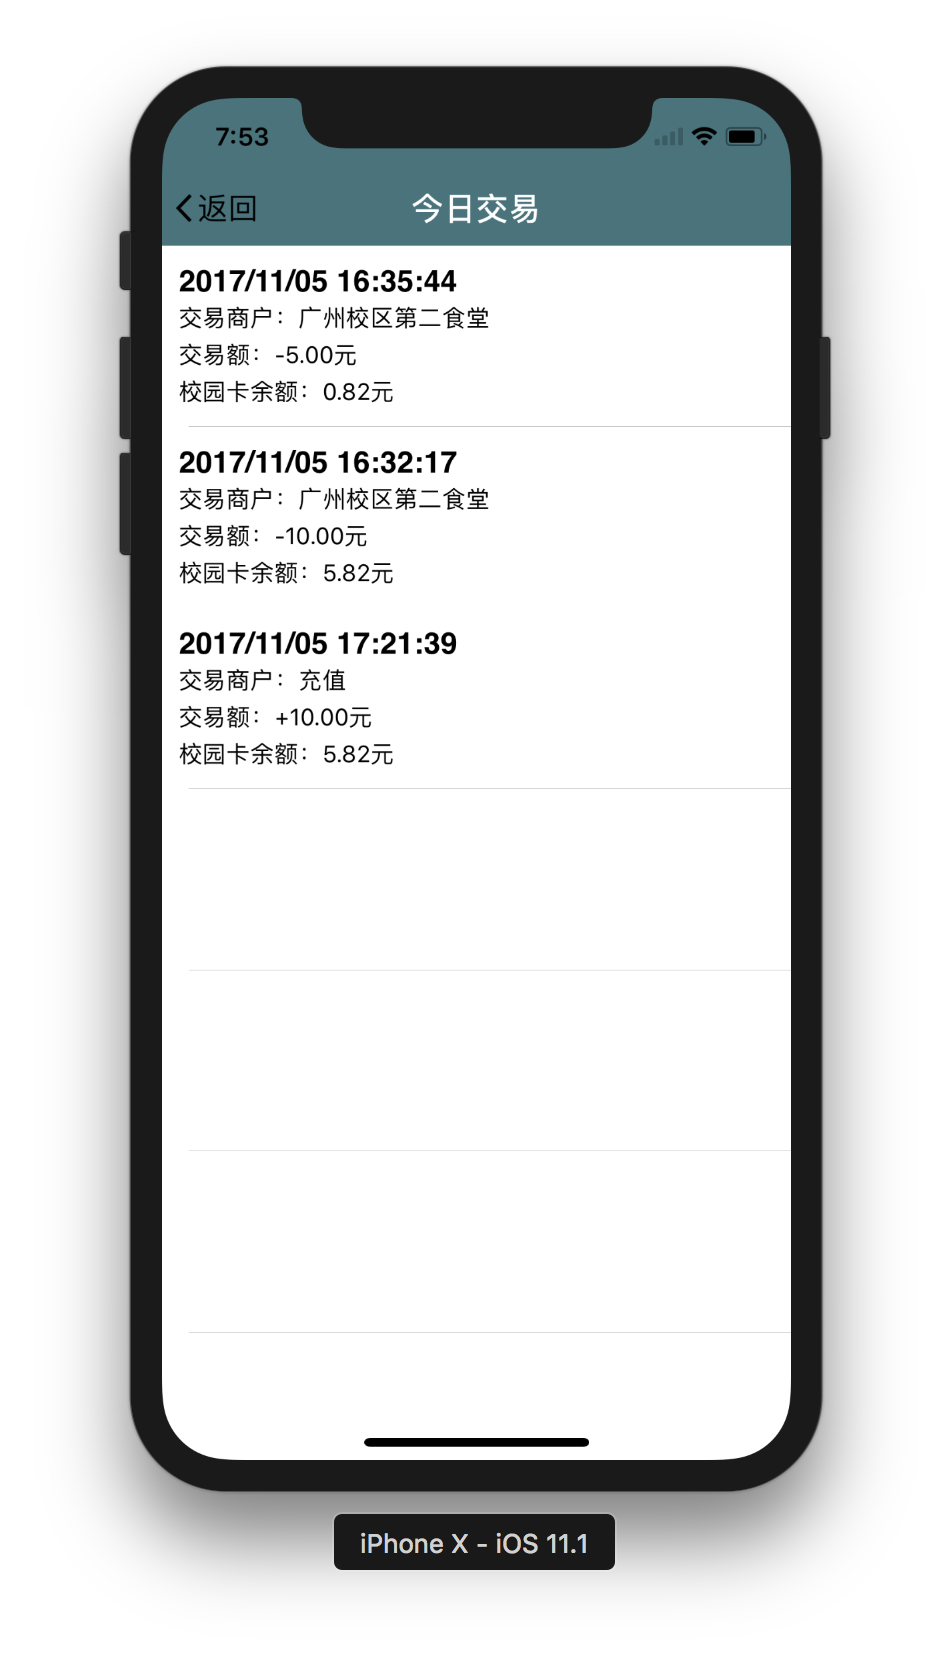
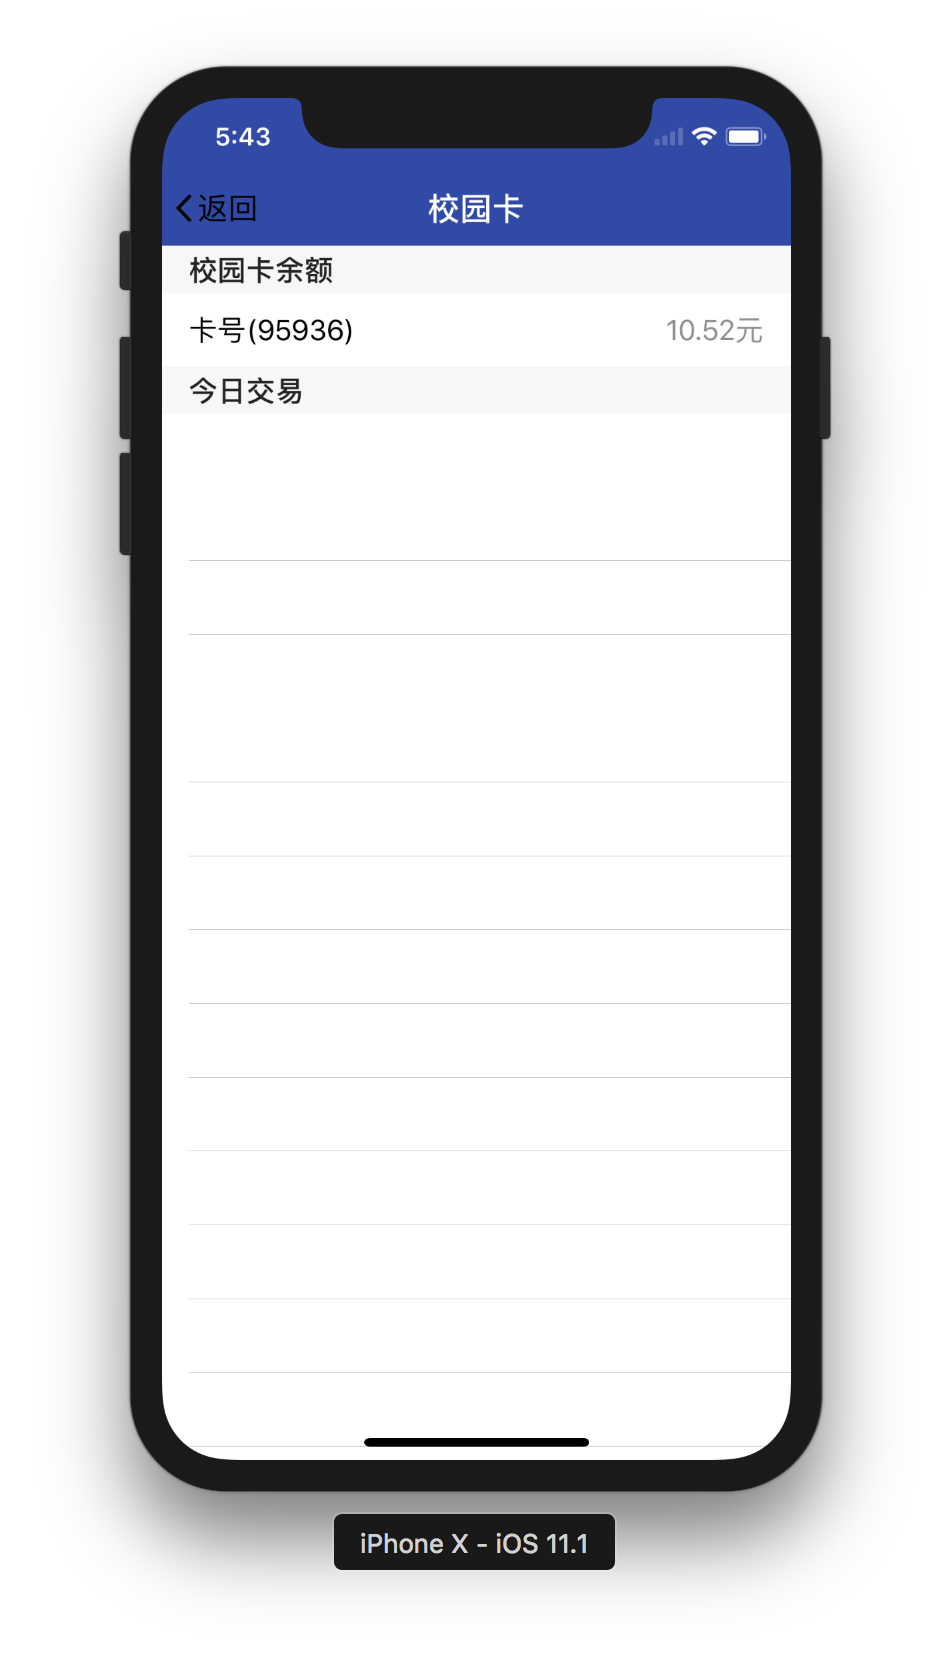
1.6.10

Changed region(s): [[0.1523, 0.0617, 0.8529, 0.4625], [0.7006, 0.185, 0.792, 0.2158]]

diff --git a/KWGdufe/Classes/Mine/Control/KWTodayBuyViewController.m b/KWGdufe/Classes/Mine/Control/KWTodayBuyViewController.m
@@ -30,15 +30,11 @@
 
 - (void)viewDidLoad {
     [super viewDidLoad];
-    self.navigationItem.title = @"今日交易";
+    self.navigationItem.title = @"校园卡";
     [SVProgressHUD showWithStatus:@"刷新今日交易"];
     
     __unsafe_unretained UITableView *tableView = self.tableView;
-    
-    //状态栏高度
-    CGRect rectStatus = [[UIApplication sharedApplication] statusBarFrame];
-    CGRect rectNav = self.navigationController.navigationBar.frame;
-    
+        
     //设置头部
     if (@available(iOS 11.0, *)) {
         self.tableView.contentInsetAdjustmentBehavior = UIScrollViewContentInsetAdjustmentNever;
@@ -54,7 +50,7 @@
         [self loadTodayData];
         [tableView.mj_header endRefreshing];
     }];
-    
+
     // 设置自动切换透明度(在导航栏下面自动隐藏)
     tableView.mj_header.automaticallyChangeAlpha = YES;
     
@@ -142,8 +138,17 @@
 }
 
 #pragma mark - Table view data source
+
+- (NSInteger)numberOfSectionsInTableView:(UITableView *)tableView {
+    return 2;
+}
+
 - (NSInteger)tableView:(UITableView *)tableView numberOfRowsInSection:(NSInteger)section {
-    return _todayBuyModel.count;
+    if (section == 0) {
+        return 1;
+    } else {
+        return _todayBuyModel.count;
+    }
 }
 
 - (UITableViewCell *)tableView:(UITableView *)tableView cellForRowAtIndexPath:(NSIndexPath *)indexPath {
@@ -151,14 +156,31 @@
     if (!cell) {
         cell = [[KWTodayBuyCell alloc]initWithStyle:UITableViewCellStyleDefault reuseIdentifier:@"todayBuyCell"];
     }
-    KWTodayBuyModel *model = _todayBuyModel[indexPath.row];
-    cell.model = model;
-    cell.selectionStyle = UITableViewCellSelectionStyleNone;
-    return cell;
+    if (indexPath.section == 0) {
+        UITableViewCell *moneyCell = [[UITableViewCell alloc]initWithStyle:UITableViewCellStyleValue1 reuseIdentifier:@"moneyCell"];
+        moneyCell.textLabel.text = [NSString stringWithFormat:@"卡号(%@)",_cardModel.cardNum];
+        moneyCell.detailTextLabel.text = [NSString stringWithFormat:@"%@元",_cardModel.cash];;
+        return moneyCell;
+    } else {
+        KWTodayBuyModel *model = _todayBuyModel[indexPath.row];
+        cell.model = model;
+        cell.selectionStyle = UITableViewCellSelectionStyleNone;
+        return cell;
+    }
 }
 
 - (CGFloat)tableView:(UITableView *)tableView heightForRowAtIndexPath:(NSIndexPath *)indexPath {
-    return 108;
+    if (indexPath.section == 1) {
+        return 108;
+    } else return 44;
+}
+
+- (NSString *)tableView:(UITableView *)tableView titleForHeaderInSection:(NSInteger)section {
+    if (section == 0) {
+        return [NSString stringWithFormat:@"校园卡余额"];
+    } else {
+        return @"今日交易";
+    }
 }
 
 @end

diff --git a/KWGdufe/Classes/Mine/View/KWMyMsgCell.m b/KWGdufe/Classes/Mine/View/KWMyMsgCell.m
@@ -32,7 +32,7 @@
         
         [nameANumView mas_makeConstraints:^(MASConstraintMaker *make) {
             make.top.equalTo(self.mas_top).with.offset(10);
-            make.left.equalTo(self.mas_left).with.offset(20);
+            make.left.equalTo(self.mas_left).with.offset(15);
             make.bottom.equalTo(self.mas_bottom).with.offset(-10);
             make.width.mas_equalTo(@((self.bounds.size.width - 50)*0.75));
         }];
@@ -40,7 +40,7 @@
         [imageView mas_makeConstraints:^(MASConstraintMaker *make) {
             make.top.equalTo(nameANumView.mas_top);
             make.left.equalTo(nameANumView.mas_right).with.offset(10);
-            make.right.equalTo(self.mas_right).with.offset(-20);
+            make.right.equalTo(self.mas_right).with.offset(-40);
             make.bottom.equalTo(nameANumView.mas_bottom);
         }];
         
@@ -56,14 +56,14 @@
         
         [_name mas_makeConstraints:^(MASConstraintMaker *make) {
             make.top.equalTo(nameANumView.mas_top);
-            make.left.equalTo(nameANumView.mas_left).with.offset(10);
+            make.left.equalTo(nameANumView.mas_left).with.offset(0);
             make.right.equalTo(nameANumView.mas_right);
             make.height.mas_equalTo(40);
         }];
         
         [_num mas_makeConstraints:^(MASConstraintMaker *make) {
             make.top.equalTo(_name.mas_bottom).with.offset(10);
-            make.left.equalTo(nameANumView.mas_left).with.offset(10);
+            make.left.equalTo(nameANumView.mas_left).with.offset(0);
             make.right.equalTo(nameANumView.mas_right);
             make.bottom.equalTo(nameANumView.mas_bottom);
         }];

diff --git a/KWGdufe/Classes/Functions/Control/KWFunctionsViewController.m b/KWGdufe/Classes/Functions/Control/KWFunctionsViewController.m
@@ -20,7 +20,7 @@
 - (void)viewDidLoad {
     [super viewDidLoad];
     self.view.backgroundColor = [UIColor whiteColor];
-    self.tableView = [[UITableView alloc]initWithFrame:self.tableView.bounds style:UITableViewStyleGrouped];
+    self.tableView = [[UITableView alloc]initWithFrame:self.tableView.frame style:UITableViewStyleGrouped];
     self.tableView.sectionFooterHeight = 0.1;//footView的高度
     [self setupNavBar];
 }
@@ -82,8 +82,8 @@
     UIView *customView = [[UIView alloc] initWithFrame:CGRectMake(15, 0, 320, KWSCreenW/15)];
     UILabel *headerLabel = [[UILabel alloc] initWithFrame:CGRectZero];
     headerLabel.backgroundColor = [UIColor clearColor];
-    headerLabel.font = [UIFont italicSystemFontOfSize:14];
-//    [headerLabel setFont:[UIFont fontWithName:@"Helvetica-Bold" size:14]];
+//    headerLabel.font = [UIFont italicSystemFontOfSize:14];
+    [headerLabel setFont:[UIFont fontWithName:@"Helvetica-Bold" size:15]];
     headerLabel.frame = customView.frame;
     if (section == 0) {
         headerLabel.text = @"教务";
@@ -95,6 +95,16 @@
     [customView addSubview:headerLabel];
     return customView;
 }
+
+//- (NSString *)tableView:(UITableView *)tableView titleForHeaderInSection:(NSInteger)section {
+//    if (section == 0) {
+//        return @"教务";
+//    } else if (section == 1) {
+//        return @"图书馆";
+//    } else {
+//        return @"其他功能";
+//    }
+//}
 
 - (CGFloat)tableView:(UITableView *)tableView heightForHeaderInSection:(NSInteger)section {
     return KWSCreenW/15;

diff --git a/KWGdufe/Classes/Mine/Control/KWMineViewController.m b/KWGdufe/Classes/Mine/Control/KWMineViewController.m
@@ -207,6 +207,7 @@
 //        cell.accessoryType = UITableViewCellAccessoryDisclosureIndicator;
 //        cell.model = _stuModel;
         KWMyMsgCell *cell = [[KWMyMsgCell alloc]initWithStyle:UITableViewCellStyleDefault reuseIdentifier:@"cell"];
+        cell.accessoryType = UITableViewCellAccessoryDisclosureIndicator;
         cell.selectionStyle = UITableViewCellSelectionStyleNone;//选中无色
         cell.model = _stuModel;
         return cell;
@@ -216,8 +217,8 @@
     else if (indexPath.section == 1) {
         if (indexPath.row == 0) {
             cell = [[UITableViewCell alloc]initWithStyle:UITableViewCellStyleValue1 reuseIdentifier:@"stuTimeCell"];
-            cell.textLabel.text = [NSString stringWithFormat:@"校园卡余额(卡号:%@)",_cardModel.cardNum];
-            cell.detailTextLabel.text = [NSString stringWithFormat:@"%@元",_cardModel.cash];
+            cell.textLabel.text = @"钱包";
+            cell.accessoryType = UITableViewCellAccessoryDisclosureIndicator;
             cell.selectionStyle = UITableViewCellSelectionStyleNone;//选中无色
         } else {
             cell.textLabel.text = @"选项待定";

diff --git a/KWGdufe/Classes/Functions/Control/KWSearchBookView.m b/KWGdufe/Classes/Functions/Control/KWSearchBookView.m
@@ -107,7 +107,7 @@
 #pragma mark - UISearchBarDelegate
 
 - (void)searchBar:(UISearchBar *)searchBar textDidChange:(NSString *)searchText {
-    NSLog(@"文字改变 = %@",searchText);
+//    NSLog(@"文字改变 = %@",searchText);
     [self loadSearchBookWithBookName:searchText];
 }
 
